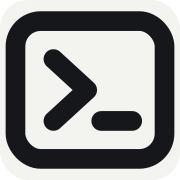
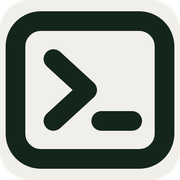
site: rebuild the social card and tighten the search metadata
Social card v8 drops the glass frame and the generic four-stage diagram. One
headline, one proof panel: 13 upstream pull requests with three named repos and
PR numbers, sized to survive a 600px preview.

SEO: description trimmed under 160 characters, author and robots meta added,
canonical kept, OG/Twitter images moved to v8, rel=me links to GitHub and
LinkedIn. JSON-LD now carries ProfilePage, Person, WebSite and an ItemList of
the five projects; CSP hash resynced. Sitemap gains lastmod, manifest gains
lang, id, categories and the current description.

Icons: SVG, ICO, 192, 512 and Apple touch rebuilt in forest ink on warm paper
instead of the old blue-black, with a cache-busting version.

diff --git a/index.html b/index.html
@@ -1,33 +1,37 @@
 <!doctype html>
-<html lang="en" data-theme="auto">
+<html lang="en-GB" data-theme="auto">
   <head>
     <meta charset="UTF-8" />
     <meta name="viewport" content="width=device-width, initial-scale=1.0" />
-    <meta name="theme-color" content="#f1efe9" />
+    <meta name="theme-color" content="#f1efe9" media="(prefers-color-scheme: light)" />
     <script src="/theme-init.js"></script>
-    <meta name="description" content="Joshua Nwachinemere is an AI Engineer. He builds Python systems for retrieval, context engineering, multimodal and voice AI, model integration, backend services and evaluation." />
+    <meta name="description" content="AI Engineer building Python systems for retrieval, context and evaluation, with 13 merged upstream pull requests and a privacy-focused desktop assistant." />
+    <meta name="author" content="Joshua Nwachinemere" />
+    <meta name="robots" content="index, follow, max-image-preview:large" />
     <link rel="canonical" href="https://joshua-nwachinemere.pages.dev/" />
     <meta property="og:title" content="Joshua Nwachinemere · AI Engineer" />
-    <meta property="og:description" content="AI engineering in Python: retrieval, context engineering, multimodal and voice systems, model integration, backend services and ML evaluation." />
+    <meta property="og:description" content="Python systems that show their work: retrieval, context and evaluation. Thirteen merged upstream pull requests." />
     <meta property="og:site_name" content="Joshua Nwachinemere · AI Engineer" />
     <meta property="og:locale" content="en_GB" />
     <meta property="og:type" content="website" />
     <meta property="og:url" content="https://joshua-nwachinemere.pages.dev/" />
-    <meta property="og:image" content="https://joshua-nwachinemere.pages.dev/og-card-v7.png" />
-    <meta property="og:image:secure_url" content="https://joshua-nwachinemere.pages.dev/og-card-v7.png" />
+    <meta property="og:image" content="https://joshua-nwachinemere.pages.dev/og-card-v8.png" />
+    <meta property="og:image:secure_url" content="https://joshua-nwachinemere.pages.dev/og-card-v8.png" />
     <meta property="og:image:type" content="image/png" />
     <meta property="og:image:width" content="1200" />
     <meta property="og:image:height" content="630" />
     <meta property="og:image:alt" content="Joshua Nwachinemere, AI Engineer building Python systems that show their work" />
     <meta name="twitter:card" content="summary_large_image" />
     <meta name="twitter:title" content="Joshua Nwachinemere · AI Engineer" />
-    <meta name="twitter:description" content="AI engineering in Python: retrieval, context engineering, multimodal and voice systems, model integration, backend services and ML evaluation." />
-    <meta name="twitter:image" content="https://joshua-nwachinemere.pages.dev/og-card-v7.png" />
+    <meta name="twitter:description" content="Python systems that show their work: retrieval, context and evaluation. Thirteen merged upstream pull requests." />
+    <meta name="twitter:image" content="https://joshua-nwachinemere.pages.dev/og-card-v8.png" />
     <meta name="twitter:image:alt" content="Joshua Nwachinemere, AI Engineer building Python systems that show their work" />
-    <link rel="icon" href="/favicon.svg?v=4" type="image/svg+xml" />
+    <link rel="icon" href="/favicon.svg?v=5" type="image/svg+xml" />
     <link rel="alternate icon" href="/favicon.ico" sizes="any" />
     <link rel="apple-touch-icon" href="/apple-touch-icon.png" sizes="180x180" />
     <link rel="manifest" href="/site.webmanifest" />
+    <link rel="me" href="https://github.com/dk3yyyy" />
+    <link rel="me" href="https://www.linkedin.com/in/joshua-nwachinemere/" />
     <link rel="preload" href="/fonts/archivo-var.woff2" as="font" type="font/woff2" crossorigin />
     <link rel="preload" href="/fonts/azeret-mono-400.woff2" as="font" type="font/woff2" crossorigin />
     <link rel="preload" as="image" href="/images/volyx-lens-context-aperture-800.webp" type="image/webp" imagesrcset="/images/volyx-lens-context-aperture-480.webp 480w, /images/volyx-lens-context-aperture-800.webp 800w, /images/volyx-lens-context-aperture-1200.webp 1200w" imagesizes="(max-width: 767px) calc(100vw - 54px), (max-width: 1248px) calc(100vw - 112px), 1136px" />
@@ -40,6 +44,8 @@
             "@id": "https://joshua-nwachinemere.pages.dev/#profilepage",
             "url": "https://joshua-nwachinemere.pages.dev/",
             "name": "Joshua Nwachinemere · AI Engineer",
+            "inLanguage": "en-GB",
+            "dateModified": "2026-11-07",
             "mainEntity": { "@id": "https://joshua-nwachinemere.pages.dev/#person" }
           },
           {
@@ -47,9 +53,32 @@
             "@id": "https://joshua-nwachinemere.pages.dev/#person",
             "name": "Joshua Nwachinemere",
             "url": "https://joshua-nwachinemere.pages.dev/",
+            "image": "https://joshua-nwachinemere.pages.dev/og-card-v8.png",
+            "description": "AI Engineer building Python systems for retrieval, context and evaluation.",
             "jobTitle": "AI Engineer",
+            "worksFor": { "@type": "Organization", "name": "VolyxAI" },
+            "alumniOf": { "@type": "CollegeOrUniversity", "name": "Northumbria University" },
             "knowsAbout": ["Python", "retrieval", "context engineering", "multimodal AI", "voice AI", "model integration", "machine learning evaluation", "FastAPI"],
             "sameAs": ["https://github.com/dk3yyyy", "https://www.linkedin.com/in/joshua-nwachinemere/"]
+          },
+          {
+            "@type": "WebSite",
+            "@id": "https://joshua-nwachinemere.pages.dev/#website",
+            "url": "https://joshua-nwachinemere.pages.dev/",
+            "name": "Joshua Nwachinemere · AI Engineer",
+            "inLanguage": "en-GB",
+            "publisher": { "@id": "https://joshua-nwachinemere.pages.dev/#person" }
+          },
+          {
+            "@type": "ItemList",
+            "name": "Selected work",
+            "itemListElement": [
+              { "@type": "ListItem", "position": 1, "name": "Volyx Lens", "url": "https://joshua-nwachinemere.pages.dev/#project-lens", "description": "Privacy-focused desktop assistant for selected screen, microphone and meeting context." },
+              { "@type": "ListItem", "position": 2, "name": "Local Review Intelligence", "url": "https://joshua-nwachinemere.pages.dev/#project-local-ai", "description": "Local-first review analysis with citation validation and a labelled evaluation." },
+              { "@type": "ListItem", "position": 3, "name": "Football Forecasting Lab", "url": "https://joshua-nwachinemere.pages.dev/#project-football", "description": "Leakage-aware forecasting with chronological train, calibration and test windows." },
+              { "@type": "ListItem", "position": 4, "name": "Telegram Social Video Downloader", "url": "https://joshua-nwachinemere.pages.dev/#project-downloader", "description": "n8n and FastAPI workflow with SQLite job state and restart recovery." },
+              { "@type": "ListItem", "position": 5, "name": "Bug Hunter", "url": "https://joshua-nwachinemere.pages.dev/#project-bug-hunter", "description": "Review-intelligence agent with a skeptical verifier and a public benchmark." }
+            ]
           }
         ]
       }

diff --git a/design/social-card-v8.html b/design/social-card-v8.html
@@ -1,0 +1,81 @@
+<!doctype html>
+<html lang="en">
+<head>
+  <meta charset="utf-8">
+  <title>Joshua Nwachinemere social card</title>
+  <style>
+    @font-face { font-family: Archivo; src: url('../public/fonts/archivo-var.woff2') format('woff2'); font-weight: 100 900; }
+    @font-face { font-family: 'Azeret Mono'; src: url('../public/fonts/azeret-mono-400.woff2') format('woff2'); font-weight: 400 500; }
+    * { box-sizing: border-box; }
+    html, body { width: 1200px; height: 630px; margin: 0; overflow: hidden; }
+    body {
+      color: #14181a;
+      font-family: Archivo, Arial, sans-serif;
+      background:
+        radial-gradient(760px 520px at 4% -12%, rgba(230, 197, 160, .55), transparent 70%),
+        #f1efe9;
+    }
+    .card {
+      display: grid; grid-template-columns: minmax(0, 1fr) 348px; gap: 44px;
+      width: 100%; height: 100%; padding: 52px 56px 44px;
+    }
+    .copy { display: flex; flex-direction: column; min-width: 0; }
+    .eyebrow {
+      display: flex; justify-content: space-between; padding-bottom: 10px;
+      border-bottom: 1px solid rgba(20, 24, 26, .18);
+      color: #4f5a54; font: 500 13px/1.3 'Azeret Mono', monospace;
+      letter-spacing: .12em; text-transform: uppercase;
+    }
+    h1 {
+      margin: 26px 0 0; max-width: 660px;
+      font-size: 74px; font-weight: 640; letter-spacing: -.05em; line-height: .95;
+    }
+    h1 em {
+      font-style: normal; color: #1f5c46;
+      text-decoration: underline; text-decoration-thickness: 5px; text-underline-offset: 7px;
+    }
+    .lede { margin: 22px 0 0; max-width: 540px; color: #2b332f; font-size: 26px; line-height: 1.35; letter-spacing: -.015em; }
+    .facts { display: flex; gap: 22px; margin: 18px 0 0; color: #1f5c46; font: 500 15px/1.4 'Azeret Mono', monospace; letter-spacing: .04em; }
+    .bottom { display: flex; align-items: baseline; justify-content: space-between; gap: 18px; margin-top: auto; padding-top: 14px; border-top: 1px solid rgba(20, 24, 26, .18); }
+    .url { font: 500 16px/1.3 'Azeret Mono', monospace; letter-spacing: -.01em; }
+    .status { color: #4f5a54; font: 500 12px/1.3 'Azeret Mono', monospace; letter-spacing: .08em; text-transform: uppercase; }
+    .panel {
+      display: flex; flex-direction: column; min-width: 0; padding: 28px 26px 22px;
+      border-radius: 24px; color: #f2f3ee; background: #14251c;
+    }
+    .panel-label { margin: 0; color: #9fc2ae; font: 500 12px/1.3 'Azeret Mono', monospace; letter-spacing: .14em; text-transform: uppercase; }
+    .count { margin: 12px 0 -4px; font-size: 104px; font-weight: 660; letter-spacing: -.06em; line-height: .9; }
+    .count-note { margin: 8px 0 0; max-width: 250px; color: #d8e2da; font-size: 18px; line-height: 1.35; letter-spacing: -.01em; }
+    .rows { display: grid; gap: 0; margin: 22px 0 0; padding: 0; list-style: none; border-top: 1px solid rgba(255, 255, 255, .18); }
+    .rows li { display: grid; gap: 3px; padding: 12px 0; border-bottom: 1px solid rgba(255, 255, 255, .14); }
+    .rows strong { font-size: 17px; font-weight: 600; letter-spacing: -.02em; }
+    .rows span { color: #a9c0b2; font: 400 12px/1.3 'Azeret Mono', monospace; }
+    .panel-foot { margin: auto 0 0; padding-top: 12px; color: #a9c0b2; font: 400 11px/1.4 'Azeret Mono', monospace; }
+  </style>
+</head>
+<body>
+  <main class="card" role="img" aria-label="Joshua Nwachinemere, AI Engineer. Python systems that show their work. Thirteen upstream pull requests, including OpenAI Agents SDK, Microsoft Agent Framework and Apache Arrow Rust.">
+    <section class="copy">
+      <div class="eyebrow"><span>Joshua Nwachinemere</span><span>AI Engineer</span></div>
+      <h1>Python systems<br>that <em>show their work</em>.</h1>
+      <p class="lede">Retrieval, context and evaluation.</p>
+      <p class="facts"><span>5 projects</span><span>5 featured essays</span></p>
+      <div class="bottom">
+        <span class="url">joshua-nwachinemere.pages.dev</span>
+        <span class="status">Open to AI Engineer roles</span>
+      </div>
+    </section>
+    <aside class="panel">
+      <p class="panel-label">Merged upstream</p>
+      <p class="count">13</p>
+      <p class="count-note">pull requests in other maintainers’ projects</p>
+      <ul class="rows">
+        <li><strong>OpenAI Agents SDK</strong><span>WebSocket retry · PR #3991</span></li>
+        <li><strong>Microsoft Agent Framework</strong><span>Compaction · PR #7391</span></li>
+        <li><strong>Apache Arrow Rust</strong><span>Nullability · PR #10486</span></li>
+      </ul>
+      <p class="panel-foot">All thirteen linked on the portfolio</p>
+    </aside>
+  </main>
+</body>
+</html>

diff --git a/tests/site.test.js b/tests/site.test.js
@@ -13,12 +13,12 @@ const wranglerConfig = await readFile(new URL('../wrangler.jsonc', import.meta.u
 const assistantDocs = await readFile(new URL('../docs/portfolio-assistant.md', import.meta.url), 'utf8');
 const pagesWorkerBuildScript = await readFile(new URL('../scripts/build-pages-worker.mjs', import.meta.url), 'utf8');
 const packageJson = JSON.parse(await readFile(new URL('../package.json', import.meta.url), 'utf8'));
-const socialCard = await readFile(new URL('../public/og-card-v7.png', import.meta.url));
+const socialCard = await readFile(new URL('../public/og-card-v8.png', import.meta.url));
 const localReviewReport = await readFile(new URL('../public/evidence/local-review-intelligence-evaluation-report.json', import.meta.url));
 const localReviewReportJson = JSON.parse(localReviewReport);
 
 const siteUrl = 'https://joshua-nwachinemere.pages.dev/';
-const socialCardUrl = `${siteUrl}og-card-v7.png`;
+const socialCardUrl = `${siteUrl}og-card-v8.png`;
 const projectNames = [
   'Volyx Lens',
   'Local Review Intelligence',
@@ -426,7 +426,7 @@ test('preserves private functional email, base-safe CV, canonical, and structure
   assert.match(html, /"@type": "Person"/);
 });
 
-test('publishes production-aligned social metadata and the approved v7 landing-page card', () => {
+test('publishes production-aligned social metadata and the approved v8 landing-page card', () => {
   assert.equal(socialCard.subarray(1, 4).toString(), 'PNG');
   assert.equal(socialCard.readUInt32BE(16), 1200);
   assert.equal(socialCard.readUInt32BE(20), 630);
@@ -439,7 +439,7 @@ test('publishes production-aligned social metadata and the approved v7 landing-p
   assert.match(html, /<meta property="og:image:alt" content="Joshua Nwachinemere, AI Engineer building Python systems that show their work"/);
   assert.match(html, new RegExp(`<meta name="twitter:image" content="${socialCardUrl.replace(/[.*+?^${}()|[\]\\]/g, '\\$&')}"`));
   assert.match(html, /<meta name="twitter:image:alt" content="Joshua Nwachinemere, AI Engineer building Python systems that show their work"/);
-  assert.doesNotMatch(html, /og-card-v[1-6]\.png/);
+  assert.doesNotMatch(html, /og-card-v[1-7]\.png/);
 });
 
 test('all external new-tab links are protected and fragments resolve uniquely', () => {
@@ -460,11 +460,11 @@ test('CV and identity artifacts remain intact', async () => {
 });
 
 test('uses the approved terminal-window favicon in the portfolio visual system', () => {
-  assert.match(html, /<link rel="icon" href="\/favicon\.svg\?v=4" type="image\/svg\+xml" \/>/);
+  assert.match(html, /<link rel="icon" href="\/favicon\.svg\?v=5" type="image\/svg\+xml" \/>/);
   assert.match(favicon, /<title id="title">Terminal window<\/title>/);
   assert.match(favicon, /<desc id="desc">A terminal prompt and cursor framed in the portfolio ink and paper palette<\/desc>/);
-  assert.match(favicon, /fill="#eaf1f7"/);
-  assert.match(favicon, /stroke="#0b1620"/);
+  assert.match(favicon, /fill="#f1efe9"/);
+  assert.match(favicon, /stroke="#14251c"/);
   assert.match(favicon, /data-mark="prompt"/);
   assert.match(favicon, /data-mark="cursor"/);
   assert.doesNotMatch(favicon, /JN split monogram|#cfff48|#2448ff|>J<|>N</);

diff --git a/tests/hardening.test.js b/tests/hardening.test.js
@@ -10,9 +10,9 @@ const exists = async (path) => access(new URL(path, root)).then(() => true, () =
 const html = await read('index.html');
 const css = await read('src/styles.css');
 
-test('ships the purpose-built v7 social card and complete icon metadata', async () => {
+test('ships the purpose-built v8 social card and complete icon metadata', async () => {
   for (const path of [
-    'public/og-card-v7.png',
+    'public/og-card-v8.png',
     'public/favicon.ico',
     'public/apple-touch-icon.png',
     'public/icons/icon-192.png',
@@ -20,11 +20,11 @@ test('ships the purpose-built v7 social card and complete icon metadata', async 
     'public/site.webmanifest',
   ]) assert.equal(await exists(path), true, `Missing ${path}`);
 
-  const card = await read('public/og-card-v7.png', null);
+  const card = await read('public/og-card-v8.png', null);
   assert.equal(card.subarray(1, 4).toString(), 'PNG');
   assert.equal(card.readUInt32BE(16), 1200);
   assert.equal(card.readUInt32BE(20), 630);
-  assert.match(html, /og-card-v7\.png/);
+  assert.match(html, /og-card-v8\.png/);
   assert.doesNotMatch(html, /og-card-v[1-6]\.png/);
   assert.match(html, /rel="apple-touch-icon"[^>]+apple-touch-icon\.png/);
   assert.match(html, /rel="manifest"[^>]+site\.webmanifest/);

diff --git a/scripts/build-social-card.js b/scripts/build-social-card.js
@@ -8,7 +8,7 @@ try {
     viewport: { width: 1200, height: 630 },
     deviceScaleFactor: 1,
   });
-  const source = pathToFileURL(resolve('design/social-card-v7.html')).href;
+  const source = pathToFileURL(resolve('design/social-card-v8.html')).href;
   await page.goto(source, { waitUntil: 'networkidle' });
   await page.evaluate(() => document.fonts.ready);
   const overflow = await page.evaluate(() => [
@@ -18,7 +18,7 @@ try {
   if (overflow.some((value) => value !== 0)) {
     throw new Error(`Social card overflowed its canvas: ${overflow.join(', ')}`);
   }
-  await page.screenshot({ path: 'public/og-card-v7.png' });
+  await page.screenshot({ path: 'public/og-card-v8.png' });
 } finally {
   await browser.close();
 }

diff --git a/public/404.html b/public/404.html
@@ -5,7 +5,7 @@
   <meta name="viewport" content="width=device-width, initial-scale=1.0" />
   <meta name="robots" content="noindex" />
   <meta name="theme-color" content="#f1efe9" />
-  <link rel="icon" href="/favicon.svg?v=4" type="image/svg+xml" />
+  <link rel="icon" href="/favicon.svg?v=5" type="image/svg+xml" />
   <link rel="preload" href="/fonts/archivo-var.woff2" as="font" type="font/woff2" crossorigin />
   <link rel="stylesheet" href="/404.css" />
   <title>Page not found · Joshua Nwachinemere</title>
